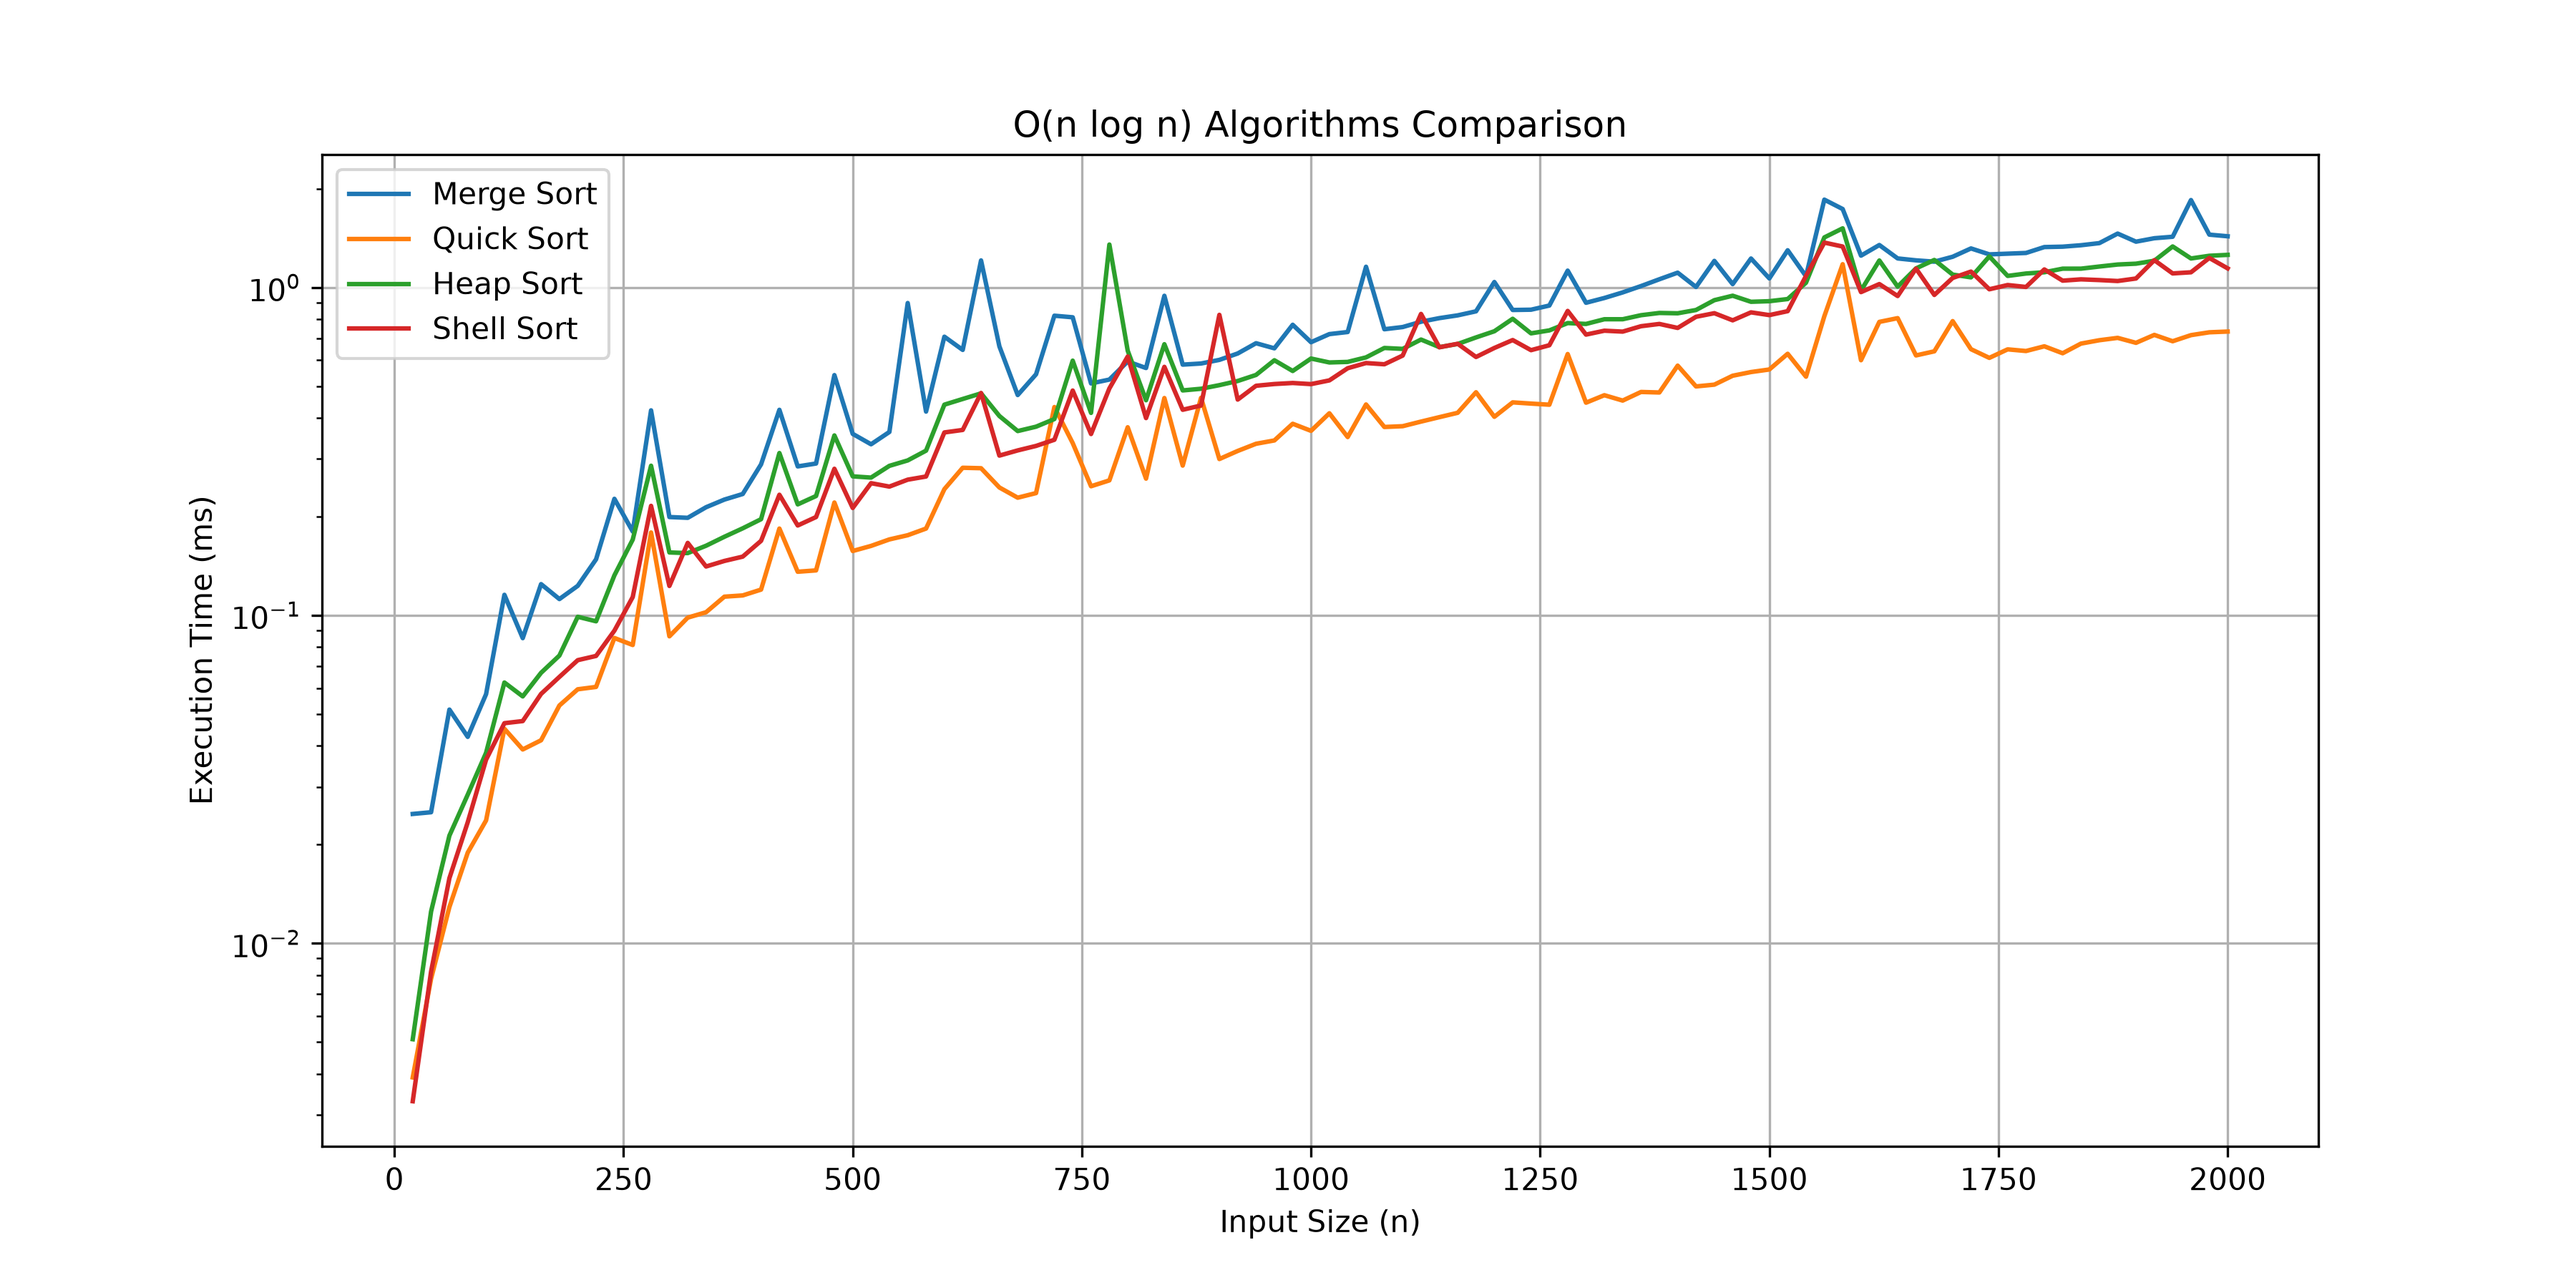
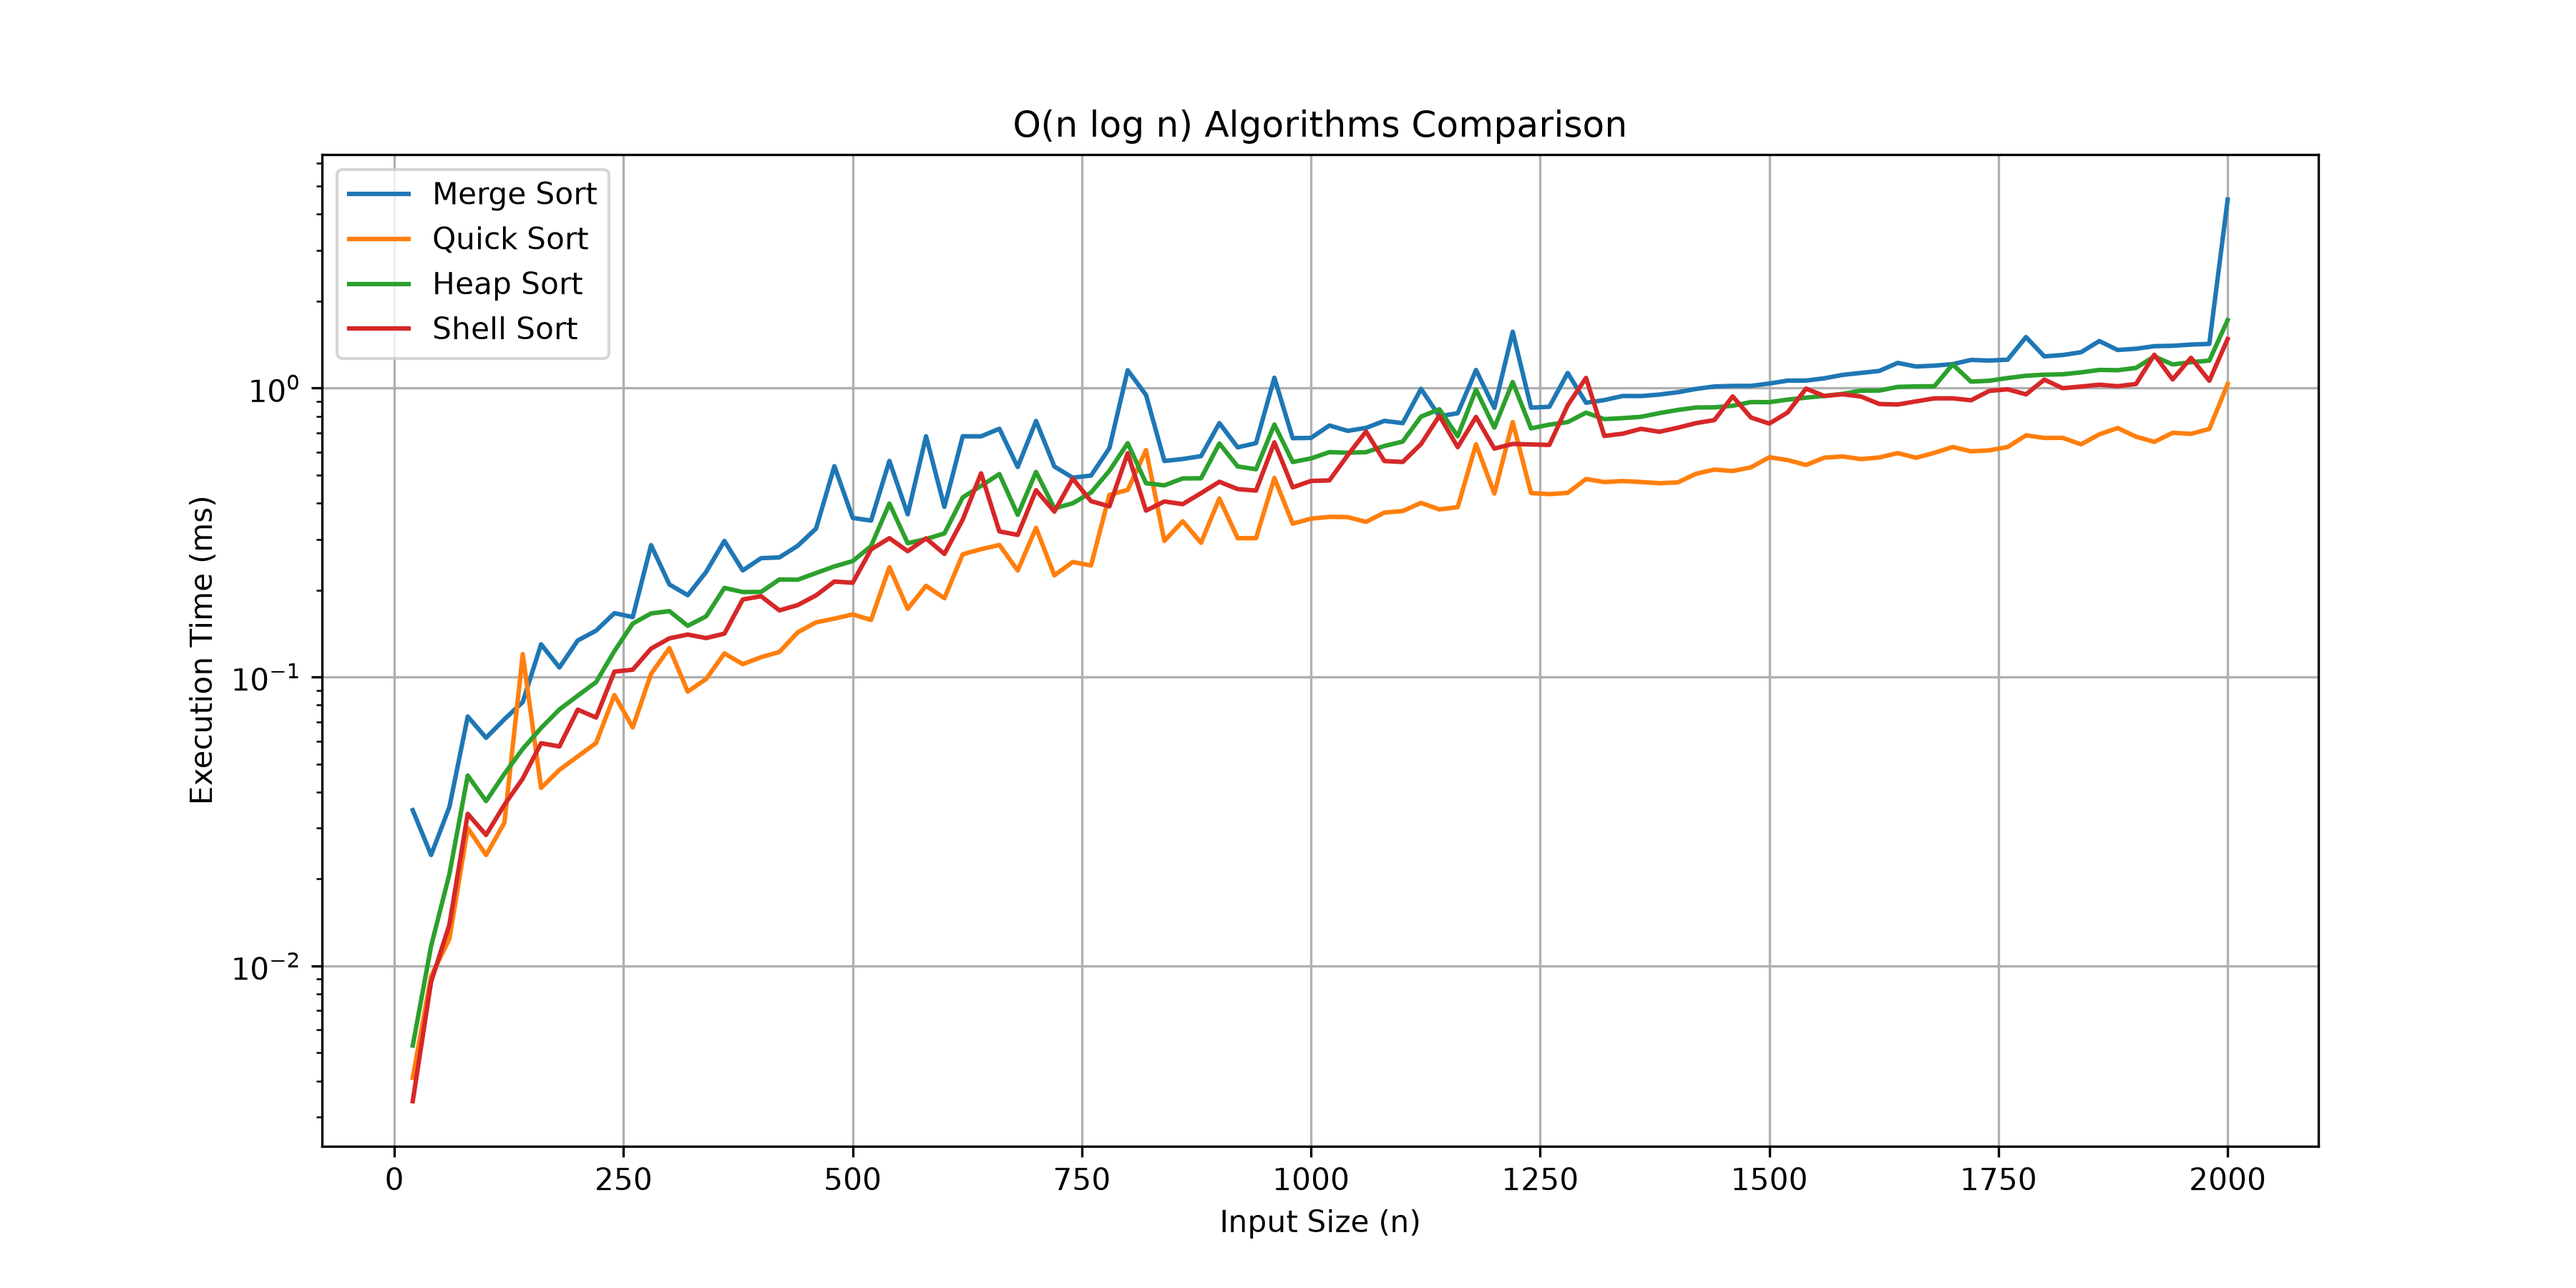
Update .gitignore, README, and benchmark data; add new graphs for algorithm performance

diff --git a/README.md b/README.md
@@ -1,0 +1,21 @@
+# Algorithms Sorting Benchmark
+
+Implemented:
+- Bubble Sort
+- Insertion Sort
+- Merge Sort
+- Quick Sort
+- Heap Sort
+- Shell Sort
+
+Custom data structure:
+- Vec
+
+Benchmark:
+- Random input generation
+- High-resolution timing
+- CSV export
+- Graph generation
+
+Build:
+g++ src/main.cpp src/sorts.cpp src/Vec.cpp -o benchmark
